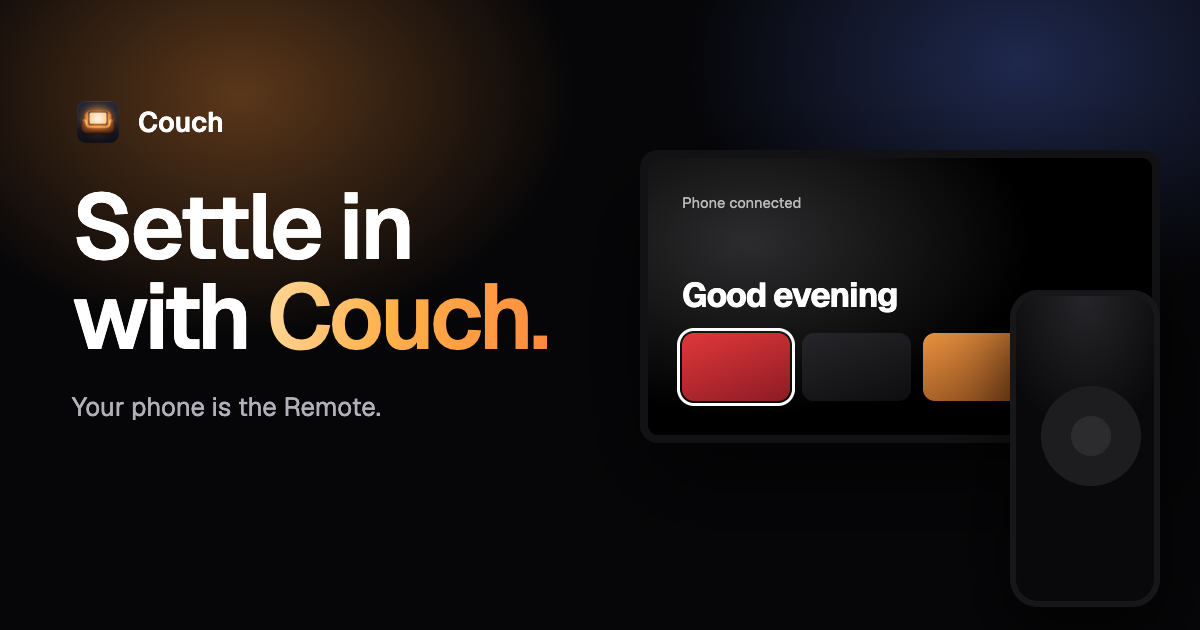
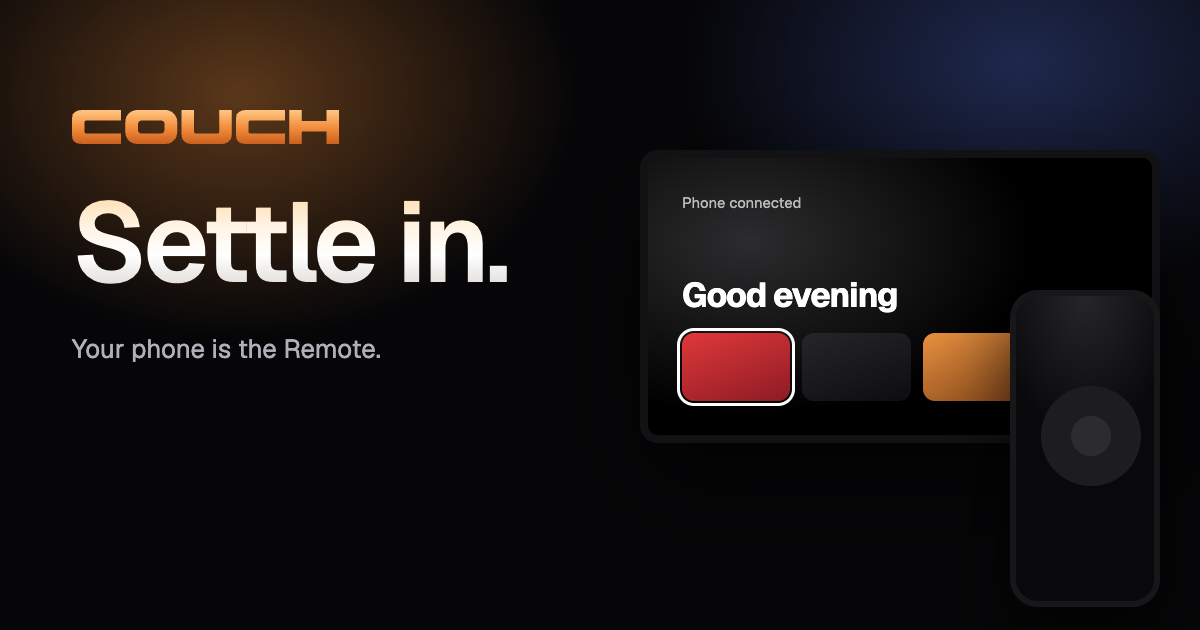
Copy: "Settle in." (COPY.md, OG and Twitter title and alt, the social card with the Korataki wordmark); screenshot alts and credits in the deck

Changed region(s): [[0.0617, 0.3016, 0.4625, 0.573], [0.0617, 0.1508, 0.3083, 0.2413], [0.0617, 0.6333, 0.3083, 0.6635]]

diff --git a/site/scripts/og.html b/site/scripts/og.html
@@ -2,13 +2,13 @@
 @font-face{font-family:Geist;src:url("../src/fonts/Geist-Variable.woff2");font-weight:100 900}
 *{box-sizing:border-box}body{margin:0;width:1200px;height:630px;background:#060608;color:#fff;font-family:Geist;position:relative;overflow:hidden}
 .a{position:absolute;inset:0;background:radial-gradient(40% 55% at 20% 15%,rgba(255,150,60,.34),transparent 70%),radial-gradient(40% 55% at 85% 10%,rgba(70,96,190,.38),transparent 70%)}
-.t{position:absolute;left:72px;top:96px;width:520px}.b{display:flex;gap:14px;align-items:center;font-size:28px;font-weight:600;margin-bottom:34px}.b img{width:52px;border-radius:13px}
-h1{font-size:92px;line-height:.98;letter-spacing:-.04em;margin:0;font-weight:600}.g{background:linear-gradient(100deg,#ffd89a,#ffb04a 45%,#ff8a3d);-webkit-background-clip:text;color:transparent}
+.t{position:absolute;left:72px;top:110px;width:520px}.b{display:block;height:34px;width:auto;margin-bottom:44px}
+h1{font-size:112px;line-height:.98;letter-spacing:-.04em;margin:0;font-weight:600;background:linear-gradient(180deg,#ffd9a6 0%,#fff4e6 34%,#fff 58%,#cfc9c3 100%);-webkit-background-clip:text;color:transparent;padding-bottom:.06em}
 p{font-size:26px;color:rgba(235,235,245,.74);margin:28px 0 0}
 .tv{position:absolute;left:640px;top:150px;width:520px;aspect-ratio:16/9;border:8px solid #121214;border-radius:18px;background:radial-gradient(80% 90% at 20% 30%,#2c2c2e,#000 70%);padding:34px;box-shadow:0 40px 90px rgba(0,0,0,.6)}
 .tv small{color:#bbb;font-size:15px}.tv strong{display:block;font-size:34px;letter-spacing:-.03em;margin-top:60px}
 .r{display:flex;gap:12px;margin-top:16px;width:80%}.r i{flex:1;aspect-ratio:16/10;border-radius:12px}
 .ph{position:absolute;left:1010px;top:290px;width:150px;aspect-ratio:9/19;border:6px solid #17171a;border-radius:28px;background:radial-gradient(90% 60% at 50% 0%,#26262a,#09090b 75%);box-shadow:0 30px 70px rgba(0,0,0,.7)}
 .ph b{position:absolute;left:25px;top:90px;width:100px;height:100px;border-radius:50%;background:#1d1d20}.ph b::after{content:"";position:absolute;left:30px;top:30px;width:40px;height:40px;border-radius:50%;background:#2c2c2e}
-</style><div class=a></div><div class=t><div class=b><img src="../public/icon.png" alt="">Couch</div><h1>Settle in with <span class=g>Couch.</span></h1><p>Your phone is the Remote.</p></div>
+</style><div class=a></div><div class=t><img class=b src="../src/brand/wordmark.svg" alt="Couch"><h1>Settle in.</h1><p>Your phone is the Remote.</p></div>
 <div class=tv><small>Phone connected</small><strong>Good evening</strong><div class=r><i style="background:linear-gradient(160deg,#e0383a,#8d1b24);outline:3px solid #fff;outline-offset:2px"></i><i style="background:linear-gradient(160deg,#26262a,#0d0d0f)"></i><i style="background:linear-gradient(160deg,#e8913f,#8a4a1c)"></i></div></div><div class=ph><b></b></div>

diff --git a/site/index.html b/site/index.html
@@ -12,15 +12,15 @@
   <link rel="apple-touch-icon" href="/apple-touch-icon.png" />
   <meta property="og:type" content="website" />
   <meta property="og:site_name" content="Couch" />
-  <meta property="og:title" content="Settle in with Couch" />
+  <meta property="og:title" content="Couch · Settle in." />
   <meta property="og:description" content="Your TV. Your evening. Your phone as the Remote. A calm home for YouTube, Netflix and your own videos. For Mac today." />
   <meta property="og:url" content="{{SITE_URL}}/" />
   <meta property="og:image" content="{{SITE_URL}}/og.png" />
   <meta property="og:image:width" content="1200" />
   <meta property="og:image:height" content="630" />
-  <meta property="og:image:alt" content="Settle in with Couch. Your phone is the Remote. A TV and phone illustration." />
+  <meta property="og:image:alt" content="Couch. Settle in. Your phone is the Remote. A TV and phone illustration." />
   <meta name="twitter:card" content="summary_large_image" />
-  <meta name="twitter:title" content="Settle in with Couch" />
+  <meta name="twitter:title" content="Couch · Settle in." />
   <meta name="twitter:description" content="Your TV. Your evening. Your phone as the Remote. A calm home for YouTube, Netflix and your own videos. For Mac today." />
   <meta name="twitter:image" content="{{SITE_URL}}/og.png" />
   {{intro:head}}

diff --git a/site/COPY.md b/site/COPY.md
@@ -17,7 +17,7 @@ Ticket 137 was a copy pass, not a redesign; ticket 138 redesigned the page aroun
 | Location | Picked string |
 | --- | --- |
 | Skip link | Skip to content |
-| Brand | Couch (ticket 139: drawn as the COUCH wordmark, an SVG with no text; the link's accessible name below carries it) |
+| Brand | Couch (ticket 142: the COUCH wordmark from Korataki ExtraBold's outlines, an SVG with no text; the link's accessible name below carries it) |
 | Brand accessible name | Couch, back to top |
 | Main navigation accessible name | Main |
 | Navigation, desktop and mobile | How it works / Apps / Library / Privacy / FAQ |
@@ -30,14 +30,15 @@ Ticket 137 was a copy pass, not a redesign; ticket 138 redesigned the page aroun
 
 ### Headline options
 
-1. **PICK — Settle in with Couch.** Leads with the feeling, names the brand and leaves platform detail to the meta line.
-2. **Your evening, on the big screen.** Puts the living-room moment first, with less emphasis on the brand.
-3. **A calmer way to watch.** Says what changes about the evening without promising new content.
+1. **PICK (ticket 142) — Settle in.** The nav's COUCH wordmark and the logo the intro draws already say Couch, so the headline only has to say how the evening feels. Approved by the user with the ticket 141 storyboard (2 Nov), over "Settle in / with Couch."
+2. **Settle in with Couch.** The pick from tickets 137 to 141: leads with the feeling and names the brand.
+3. **Your evening, on the big screen.** Puts the living-room moment first, with less emphasis on the brand.
+4. **A calmer way to watch.** Says what changes about the evening without promising new content.
 
 ### Picked copy
 
 - Badge: **Early release · Free and open source**
-- Headline: **Settle in with Couch.** (ticket 138: set as a small line “Settle in with” above the wordmark “Couch.”; one `h1`, read as one sentence)
+- Headline: **Settle in.** (ticket 142; one `h1`, set large in the warm white gradient. Until ticket 142 it was "Settle in with" above a large "Couch.")
 - Body: A calm home screen for your TV, with YouTube, Netflix and your own videos. Your phone is the Remote.
 - Primary button: **Get Couch, pay what you want**
 - Secondary link: **or download free from GitHub**
@@ -279,11 +280,12 @@ Windows is being considered, not promised. If you'd use it, tap Couch for Window
 - Navigation accessible name: **Footer**
 - Links: **GitHub** / **Releases** / **GPL-3.0-or-later** / **Third-party licences**
 - Trademark note: Netflix and YouTube are trademarks of their owners. Couch is not affiliated with or endorsed by them.
+- Film and TMDB credits (ticket 142): The films on the Screen are Blender's open films *Big Buck Bunny*, *Sintel* and *Tears of Steel*, © Blender Foundation, CC BY 3.0. Posters and backdrops come from TMDB. This product uses the TMDB API but is not endorsed or certified by TMDB. (Each film links to its Blender project page, "CC BY 3.0" to the licence and "TMDB" to themoviedb.org. The TMDB sentence is TMDB's required notice, word for word.)
 - Copyright and site privacy: © **2026** Abdullah Nettoor. No cookies. No analytics.
 - The year remains dynamic, with 2026 as the HTML fallback.
 - Brand icon alt: empty.
 
-No TMDB artwork is shown on this site; the existing mock and screenshot assets remain. Do not silently add online posters without revisiting attribution.
+Since ticket 142 the screenshots show TMDB artwork (the Blender films' posters and backdrops, fetched by Couch's optional online details), so the footer and the licences page carry TMDB's notice and the films' CC BY credit. Keep both whenever a screenshot shows a film.
 
 ## 11. Metadata and social card
 
@@ -292,11 +294,11 @@ No TMDB artwork is shown on this site; the existing mock and screenshot assets r
 | HTML title | Couch · A calm home screen for your TV |
 | Description | A calm home screen for your TV, with YouTube, Netflix and your own videos. Your phone is the Remote. Free and open source. For Mac today. |
 | OG site name | Couch |
-| OG and Twitter title | Settle in with Couch |
+| OG and Twitter title | Couch · Settle in. (ticket 142; was "Settle in with Couch") |
 | OG and Twitter description | Your TV. Your evening. Your phone as the Remote. A calm home for YouTube, Netflix and your own videos. For Mac today. |
-| OG image alt | Settle in with Couch. Your phone is the Remote. A TV and phone illustration. |
-| Social image brand | Couch |
-| Social image headline | Settle in with Couch. |
+| OG image alt | Couch. Settle in. Your phone is the Remote. A TV and phone illustration. |
+| Social image brand | The COUCH wordmark (`src/brand/wordmark.svg`) |
+| Social image headline | Settle in. |
 | Social image supporting line | Your phone is the Remote. |
 | Social illustration text, unchanged | Phone connected / Good evening |
 
@@ -308,14 +310,14 @@ Source of truth for slot alts: `src/slots.ts`. These descriptions also name the 
 
 | Slot | Picked alt |
 | --- | --- |
-| `hero-screen` | Couch Home on the Screen, with a clock and the YouTube, Netflix and Library Apps |
+| `hero-screen` | Couch Home on the Screen: Big Buck Bunny under Continue watching, its picture filling the Screen with Resume and From start, and the YouTube, Netflix and Library Apps below (ticket 142 screenshot; was the Home mock) |
 | `remote-screen` | Couch Home during phone pairing, with a QR code or a connected phone and a highlighted App |
 | `remote-phone` | A phone pairing with Couch, then showing the Remote and its D-pad |
 | `apps-screen` | Couch Home with the YouTube, Netflix and Library Apps and unfinished videos |
-| `library-screen` | The Library on the Screen, with a highlighted test video and its picture |
-| `privacy-screen` | Couch Settings, with Remotes and Devices, Library, Sound output, Apps and Home |
-| `setup-remotes` | Remotes and Devices in Settings, with Add a phone highlighted |
-| `setup-player` | A test video playing in the Library, with playback, subtitle and volume controls |
+| `library-screen` | The Library on the Screen: a Films shelf with the posters of Big Buck Bunny, Sintel and Tears of Steel, and the highlighted film's details above |
+| `privacy-screen` | Couch Settings: Remotes and Devices with one phone connected, Library, Sound output, Apps, Home and Quit Couch |
+| `setup-remotes` | Remotes and Devices in Settings, with Add a phone highlighted to show the QR code |
+| `setup-player` | Big Buck Bunny playing in Couch's player, with pause, skip, subtitle and volume controls |
 | Library shelf mock (`src/mocks.ts`), unchanged | A folder named Movies becomes a shelf of videos: Summer Trip and Cooking Show part-watched, Home Videos watched |
 
 Decorative brand/app icons have empty alt text. Decorative SVGs, highlights and device frames do not need prose. Product mocks are image-like and inert, not working controls.
@@ -330,7 +332,7 @@ The app's words are part of the faithful UI illustration, not opportunities for 
 - Phone camera overlay: **Point the camera at the code on the Screen**.
 - Copied Remote: **On the Screen**, **Home**, **Connected**, **· 1 phone**, **YouTube**, **Netflix**, **Library**, **OK**, **35**.
 - Copied Remote accessible labels, unchanged and inside the inert illustration: **Power**, **Home**, **Mute**, **Quick settings**, **Settings**, **Apps**, **Open YouTube**, **Open Netflix**, **Open Library**, **Up**, **Down**, **Left**, **Right**, **Volume down**, **Volume**, **Volume up**.
-- Existing screenshot pixels are not rewritten. Library shows **Test Movie**, **FILM · 2020**, **All**, **Films**, **No phone connected**, **2:03 AM**. Settings shows **Remotes and Devices**, **Library**, **Sound output**, **System default**, **Apps**, **Home**, **Quit Couch**. Remotes and Devices shows **Add a phone**, **Show the QR code**, **Forget all phones**, **1 connected**, **Start Couch Listener at login**, **Off**, **Listener off**. Player shows the test **Clip**, its timeline and playback controls. These are test content and UI, not claims about the visitor's Library.
+- Existing screenshot pixels are not rewritten. Since ticket 142 they are the real Couch from the ticket 140 shoot (a temporary profile, privacy-checked): Home shows **Big Buck Bunny (2008)**, **Animation / Comedy / Family**, its TMDB synopsis, **films · 7 min left**, **Resume**, **From start**, **YouTube**, **Netflix**, **Library**, **1 phone connected**, **3:36 PM**. Library shows **FILM · 2008**, **Big Buck Bunny**, **All / Films / English / Animation**, **Films** with **Big Buck Bunny**, **Sintel**, **Tears of Steel**, **‹ Home**. Settings shows **Remotes and Devices** (**1 connected**), **Library**, **Sound output** (**System default**), **Apps**, **Home**, **Quit Couch**. Remotes and Devices shows **Add a phone** (**Show the QR code**), **Forget all phones** (**1 connected**), **Start Couch Listener at login** (**On**), **Listener off**. The player shows **Big Buck Bunny (2008)** at **2:04 / -7:52** with **More episodes** and its controls. "films" is the shoot's folder name. These are Blender's open films and Couch's own UI, not claims about the visitor's Library.
 
 ## 13. Not-found page (`public/404.html`)
 
@@ -358,6 +360,7 @@ The app's words are part of the faithful UI illustration, not opportunities for 
 - Body: Couch's website uses these fonts and icons. Each has its own licence. Follow the links for the full texts.
 - First item: **Geist and Geist Mono** fonts: SIL Open Font License 1.1, Copyright (c) 2023 Vercel, in collaboration with basement.studio.
 - Second item: **Phosphor Icons**: MIT, Copyright (c) 2023 Phosphor Icons.
+- Section (ticket 142): **Films and pictures in the screenshots**. The screenshots show Couch playing Blender's open films. They are shared under the Creative Commons Attribution 3.0 licence: *Big Buck Bunny* (2008), *Sintel* (2010) and *Tears of Steel* (2012), each © Blender Foundation, CC BY 3.0. The posters, backdrops and film details come from TMDB. This product uses the TMDB API but is not endorsed or certified by TMDB.
 - Closing: The site itself is GPL-3.0-or-later, like Couch. Netflix and YouTube are trademarks of their owners; Couch is not affiliated with or endorsed by them.
 - Recovery link: **Back to Couch**
 
